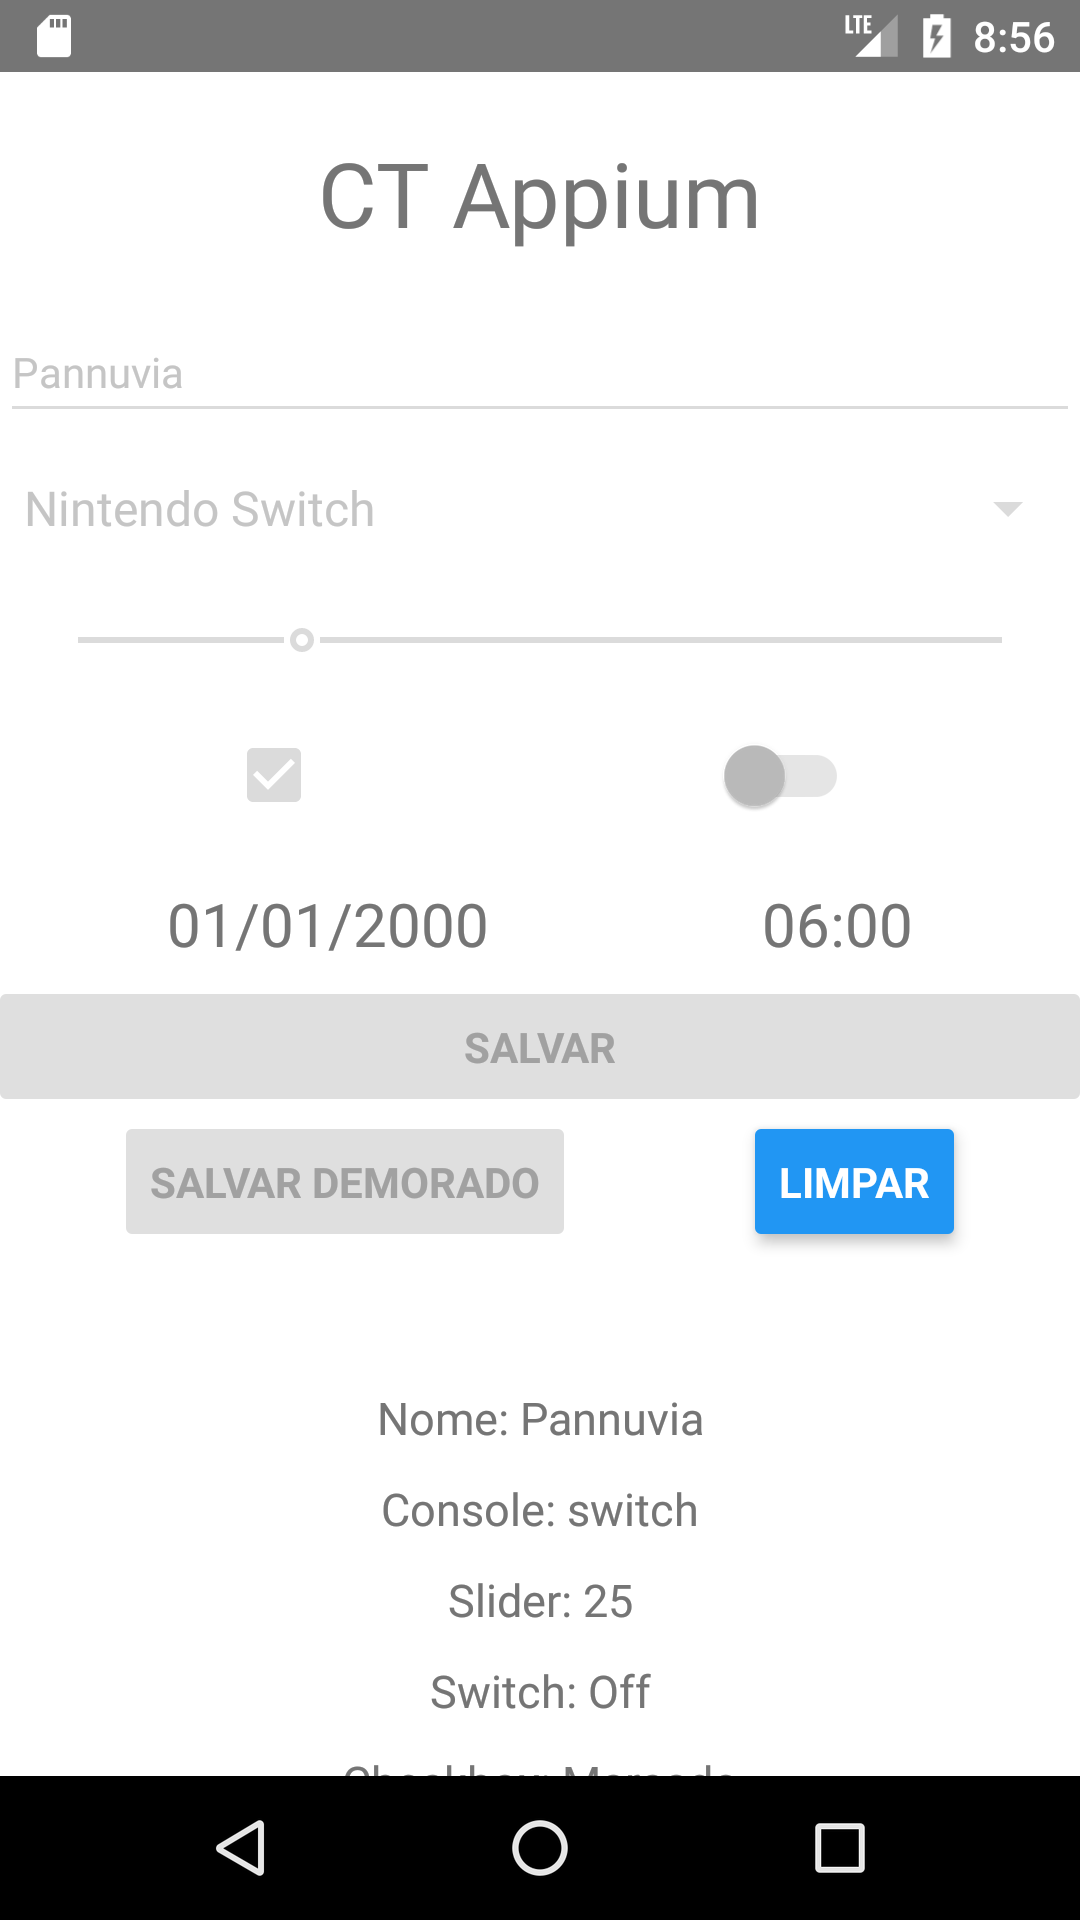
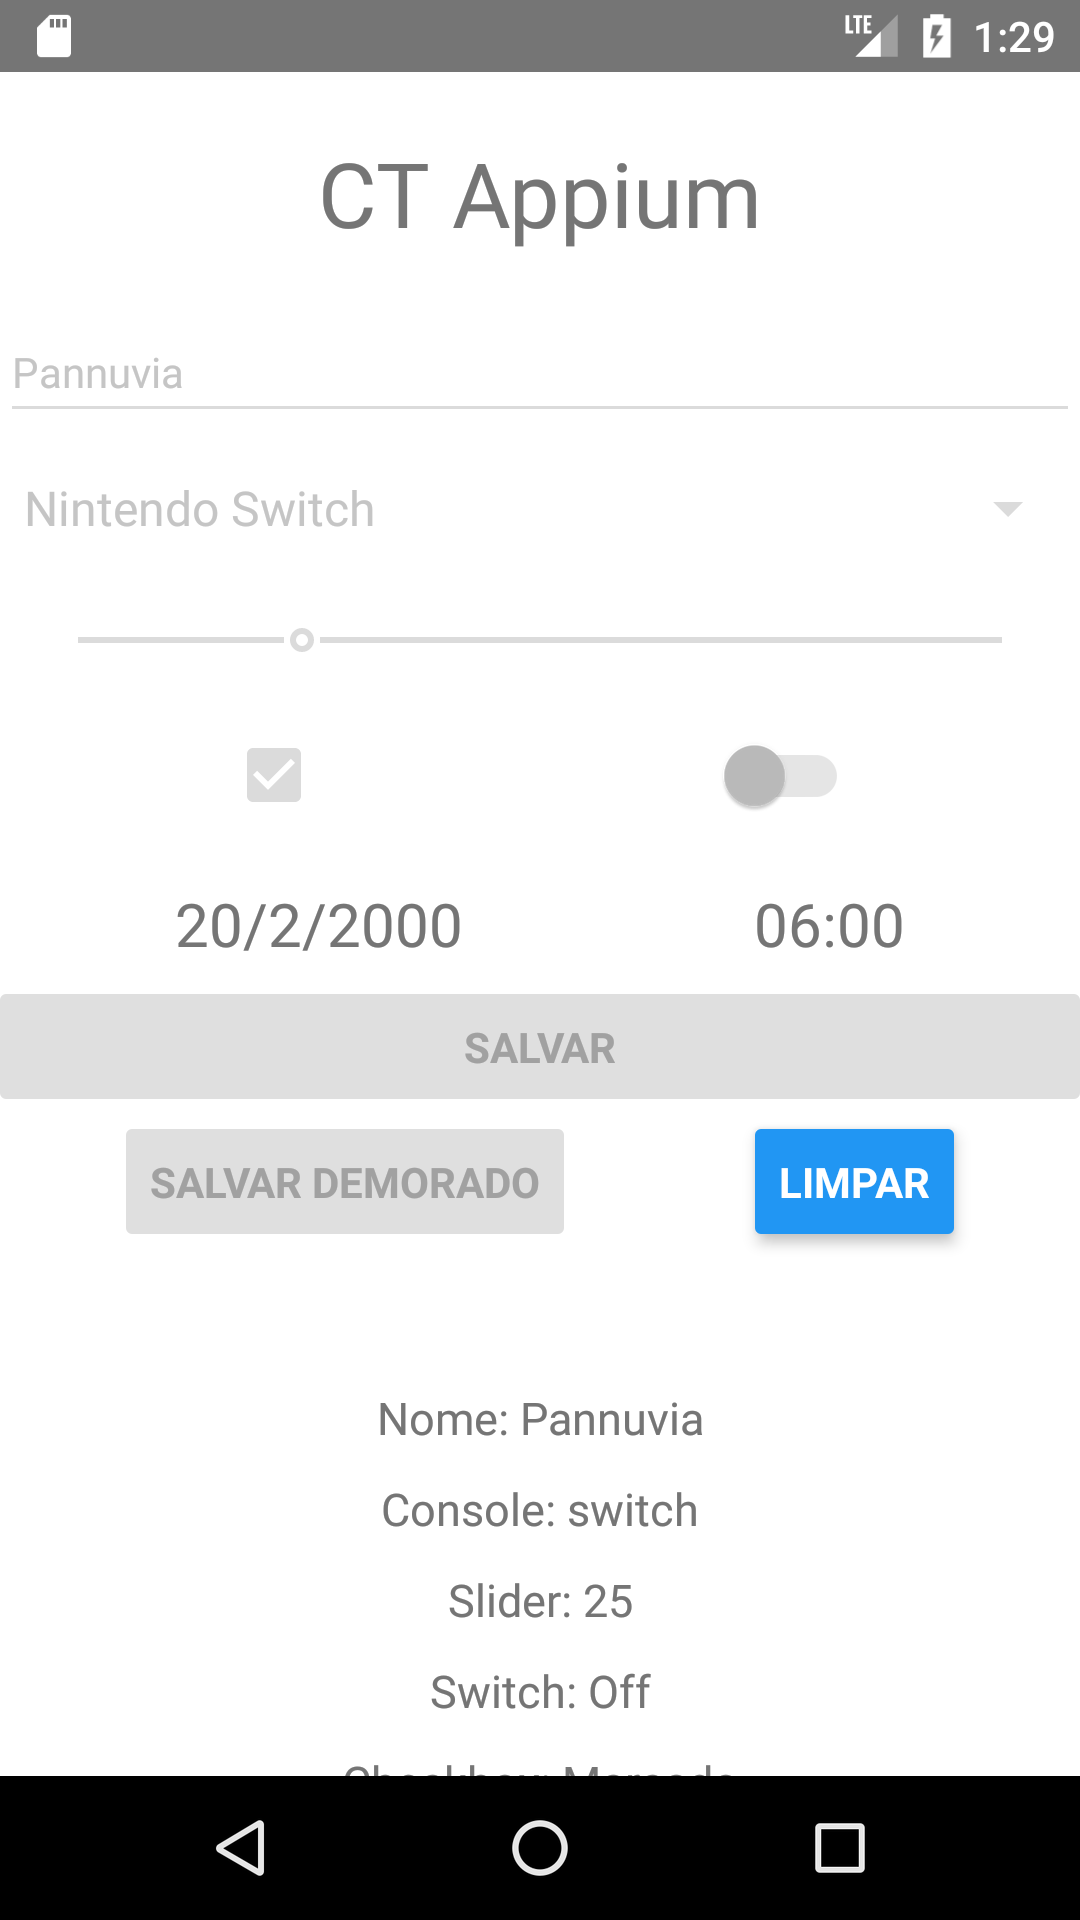
Criando a classe DataPickerTest e ajustando as outras classes

Changed region(s): [[0.1528, 0.4688, 0.4583, 0.5], [0.7028, 0.4688, 0.8556, 0.5], [0.8861, 0.0, 0.9778, 0.0312]]

diff --git a/src/main/java/br/rs/pannuviamonteiro/appium/cttreinamento/tests/FormularioTest.java b/src/main/java/br/rs/pannuviamonteiro/appium/cttreinamento/tests/FormularioTest.java
@@ -14,6 +14,7 @@ public class FormularioTest extends BaseTest {
 	private MenuPage menuPage;
 	private FormularioPage formularioPage;
 
+
 	public FormularioTest() {
 		this.menuPage = new MenuPage();
 		this.formularioPage = new FormularioPage();
@@ -38,7 +39,16 @@ public class FormularioTest extends BaseTest {
 		
 		//clicar no switch
 		this.formularioPage.clicarNoSwitch();
-
+		
+		//clicar no datapicker
+		this.formularioPage.clicarNoDataPicker("01/01/2000");
+		
+		//selecionar dia
+		this.formularioPage.clicarPorTexto("20");
+		
+		//clicar em OK
+		this.formularioPage.clicarPorTexto("OK");
+		
 		//clicar em salvar
 		this.formularioPage.clicarEmSalvar();
 
@@ -47,6 +57,7 @@ public class FormularioTest extends BaseTest {
 		assertEquals("Console: switch", this.formularioPage.capturarComboCadastrado());
 		assertTrue(this.formularioPage.capturarCheckboxCadastrado().endsWith("Marcado"));
 		assertTrue(this.formularioPage.capturarSwitchCadastrado().endsWith("Off"));
+		assertEquals("20/2/2000", this.formularioPage.capturarDataCadastrada());
 	}
 
 }

diff --git a/src/main/java/br/rs/pannuviamonteiro/appium/cttreinamento/page/FormularioPage.java b/src/main/java/br/rs/pannuviamonteiro/appium/cttreinamento/page/FormularioPage.java
@@ -29,6 +29,10 @@ public class FormularioPage extends BasePage {
 	public void clicarNoSwitch() {
 		clicar(MobileBy.AccessibilityId("switch"));
 	}
+	
+	public void clicarNoDataPicker(String data) {
+		clicar(By.xpath("//android.widget.TextView[@text='"+data+"']"));
+	}
 
 	public boolean verificarSeCheckboxEstaMarcado() {
 		return verificarSeEstaMarcado(By.className("android.widget.CheckBox"));
@@ -54,6 +58,10 @@ public class FormularioPage extends BasePage {
 		return capturarTexto(By.xpath("//android.widget.TextView[starts-with(@text, 'Switch:')]"));
 	}
 
+	public String capturarDataCadastrada() {
+		return capturarTexto(By.xpath("//android.view.ViewGroup/android.widget.TextView[@text='20/2/2000']"));
+	}
+	
 	public void clicarEmSalvar() {
 		clicarPorTexto("SALVAR");
 	}
